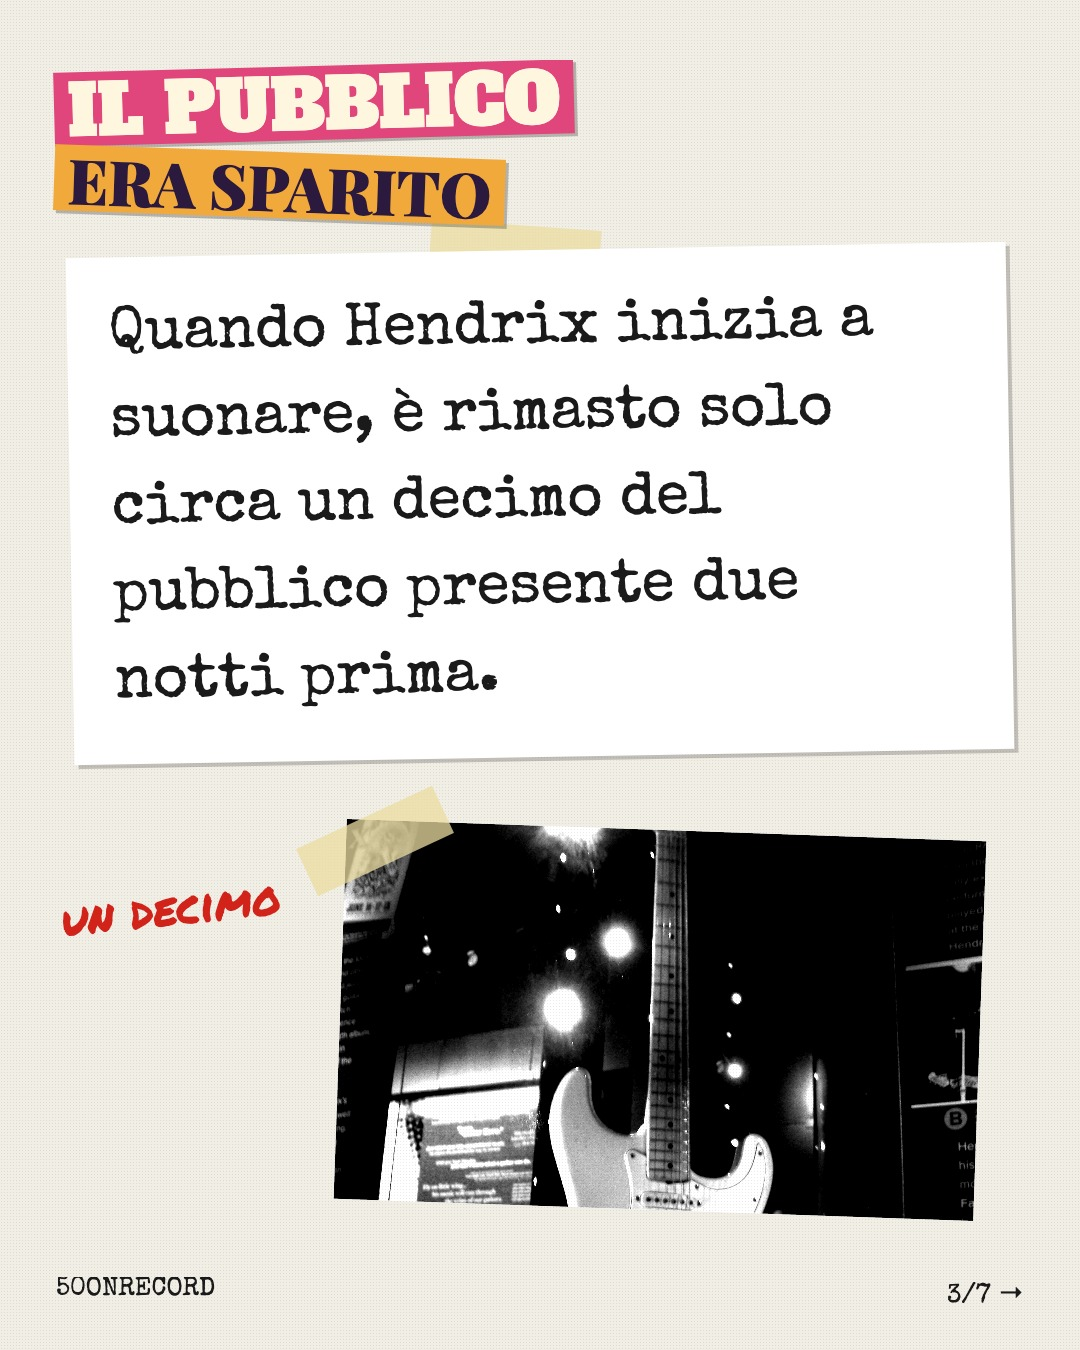
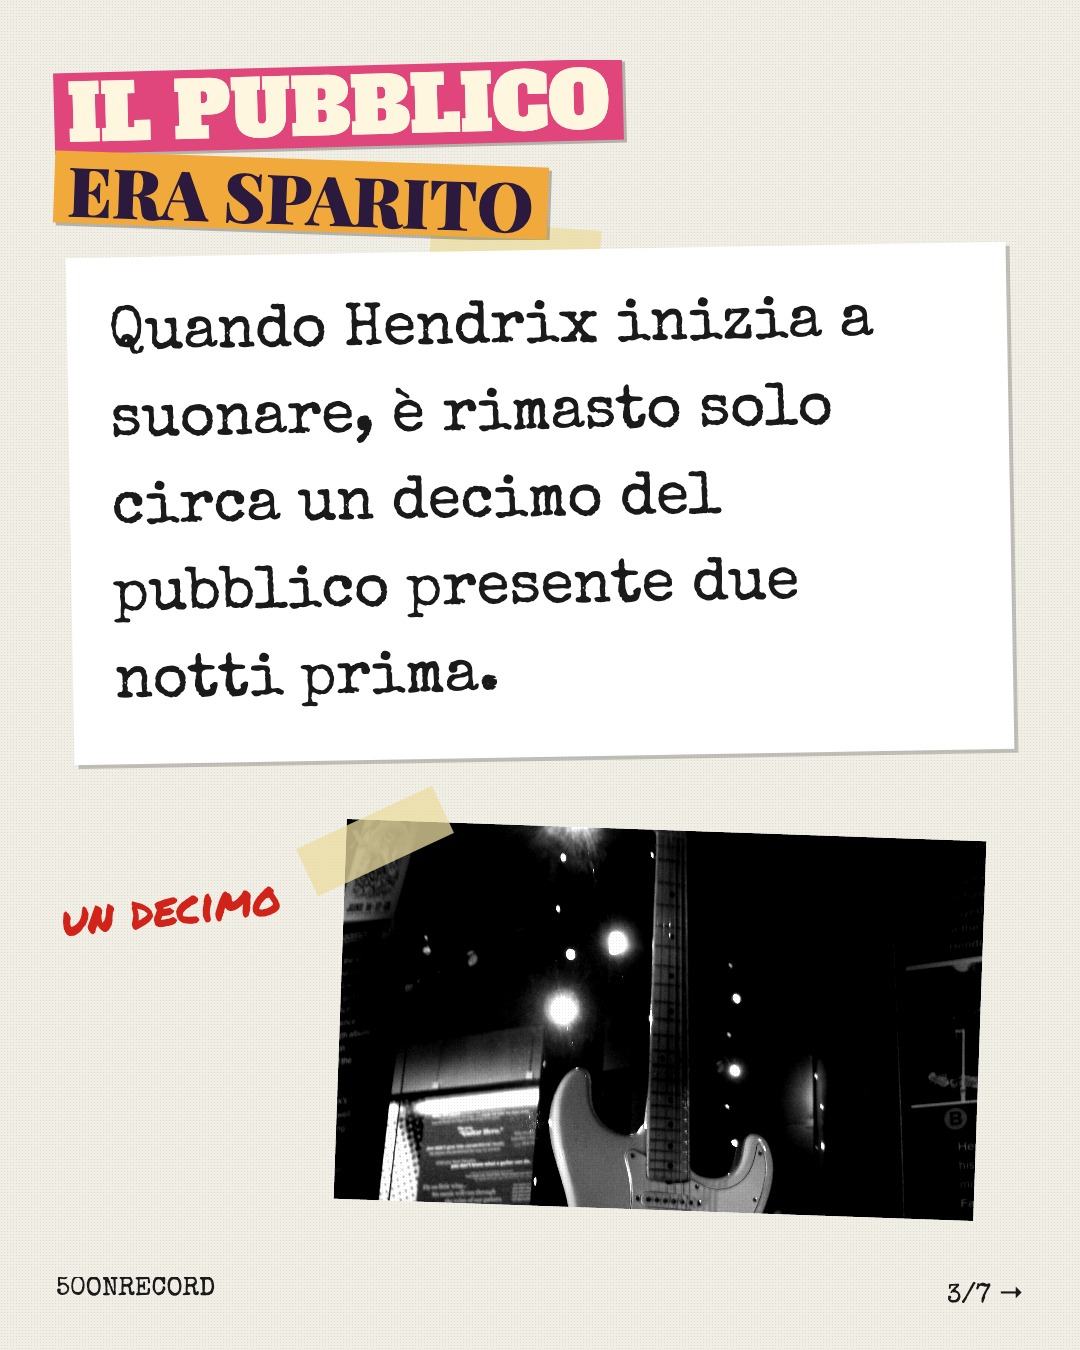
grafica: foto meno sbiadite, titoli a ritagli più grandi (crescono finché stanno nello spazio); Hendrix rifatto

diff --git a/templates/base.css b/templates/base.css
@@ -11,16 +11,16 @@ html, body { width: 1080px; height: 1350px; overflow: hidden; background: #f1eee
 .grain::before { content: ""; position: absolute; inset: 0; background-image: radial-gradient(rgba(0,0,0,.08) 1px, transparent 1px); background-size: 3px 3px; pointer-events: none; z-index: 5; }
 
 .xerox { position: absolute; overflow: hidden; background: #fff; }
-.xerox img { width: 100%; height: 100%; object-fit: cover; object-position: 50% 25%; filter: grayscale(1) brightness(1.9) contrast(1.7); }
+.xerox img { width: 100%; height: 100%; object-fit: cover; object-position: 50% 25%; filter: grayscale(1) brightness(1.2) contrast(1.4); }
 .tape { position: absolute; width: 170px; height: 52px; background: rgba(235,220,160,.75); z-index: 6; }
 
 .cuts { position: absolute; left: 50px; right: 50px; overflow: hidden; z-index: 7; text-transform: uppercase; }
 .cut { display: inline-block; white-space: nowrap; margin: 6px 4px; padding: 4px 14px 0; line-height: 1; box-shadow: 3px 3px 0 rgba(0,0,0,.25); }
-.cuts .cut:nth-child(5n+1) { background: var(--c1-bg); color: var(--c1-fg); font-family: var(--f1); font-size: var(--s1, 96px); transform: rotate(-1.5deg); }
-.cuts .cut:nth-child(5n+2) { background: var(--c2-bg); color: var(--c2-fg); font-family: var(--f2); font-size: var(--s2, 78px); transform: rotate(2deg); }
-.cuts .cut:nth-child(5n+3) { background: var(--c3-bg); color: var(--c3-fg); font-family: var(--f3); font-size: var(--s3, 90px); transform: rotate(-1deg); }
-.cuts .cut:nth-child(5n+4) { background: var(--c4-bg); color: var(--c4-fg); font-family: var(--f4); font-size: var(--s4, 58px); transform: rotate(1deg); }
-.cuts .cut:nth-child(5n+5) { background: var(--c5-bg); color: var(--c5-fg); font-family: 'Special Elite'; font-size: var(--s5, 58px); transform: rotate(-2deg); }
+.cuts .cut:nth-child(5n+1) { background: var(--c1-bg); color: var(--c1-fg); font-family: var(--f1); font-size: calc(var(--s1, 96px) * var(--k, 1)); transform: rotate(-1.5deg); }
+.cuts .cut:nth-child(5n+2) { background: var(--c2-bg); color: var(--c2-fg); font-family: var(--f2); font-size: calc(var(--s2, 78px) * var(--k, 1)); transform: rotate(2deg); }
+.cuts .cut:nth-child(5n+3) { background: var(--c3-bg); color: var(--c3-fg); font-family: var(--f3); font-size: calc(var(--s3, 90px) * var(--k, 1)); transform: rotate(-1deg); }
+.cuts .cut:nth-child(5n+4) { background: var(--c4-bg); color: var(--c4-fg); font-family: var(--f4); font-size: calc(var(--s4, 58px) * var(--k, 1)); transform: rotate(1deg); }
+.cuts .cut:nth-child(5n+5) { background: var(--c5-bg); color: var(--c5-fg); font-family: 'Special Elite'; font-size: calc(var(--s5, 58px) * var(--k, 1)); transform: rotate(-2deg); }
 .cuts.small { --s1: 70px; --s2: 62px; --s3: 66px; --s4: 50px; --s5: 50px; }
 .cuts.tiny { --s1: 50px; --s2: 44px; --s3: 48px; --s4: 40px; --s5: 40px; }
 .cuts.huge { --s1: 150px; --s2: 110px; --s3: 120px; }

diff --git a/tests/test_render.py b/tests/test_render.py
@@ -229,3 +229,39 @@ def test_final_slide_without_lyric_quote_keeps_the_e_tu_heading(tmp_path, story_
     render_story(story, _photos_for(story), issue=1, out_dir=tmp_path)
     final = (tmp_path / "html" / f"{len(story.slides):02d}.html").read_text(encoding="utf-8")
     assert "E TU?" in final
+
+
+def _cut_scale(html):
+    import os
+    from playwright.sync_api import sync_playwright
+    from onrecord.render import _GROW_CUTS_JS, _OVERFLOW_JS
+    with sync_playwright() as pw:
+        browser = pw.chromium.launch(channel=os.environ.get("ONRECORD_BROWSER_CHANNEL") or None)
+        try:
+            tab = browser.new_page(viewport={"width": 1080, "height": 1350})
+            tab.set_content(html)
+            tab.evaluate(_GROW_CUTS_JS, 1.6)
+            scales = tab.evaluate("[...document.querySelectorAll('.cuts')].map(e => parseFloat(e.style.getPropertyValue('--k') || 1))")
+            return scales, tab.evaluate(_OVERFLOW_JS, 10)
+        finally:
+            browser.close()
+
+
+_CUTS_CSS = ("<style>*{margin:0;box-sizing:border-box}.cuts{position:absolute;left:50px;right:50px;overflow:hidden}"
+             ".cut{display:inline-block;white-space:nowrap;margin:6px 4px;padding:4px 14px 0;line-height:1;"
+             "font-family:sans-serif;font-size:calc(70px * var(--k, 1))}</style>")
+
+
+def test_heading_cuts_grow_to_fill_their_space_without_overflowing():
+    html = _CUTS_CSS + '<div class="cuts fit" style="top:0;height:390px"><span class="cut">DI BIMBO</span></div>'
+    (scale,), bad = _cut_scale(html)
+    assert 1 < scale <= 1.6   # molto spazio: i ritagli crescono, fino al tetto
+    assert bad == []          # e restano dentro il loro riquadro
+
+
+def test_heading_cuts_that_do_not_fit_are_left_alone():
+    html = (_CUTS_CSS + '<div class="cuts fit" style="top:0;height:40px">'
+            '<span class="cut">UNA PAROLA</span><span class="cut">DI BIMBO</span></div>')
+    (scale,), bad = _cut_scale(html)
+    assert scale == 1         # non toccati: l'overflow resta segnalato
+    assert bad

diff --git a/onrecord/render.py b/onrecord/render.py
@@ -54,6 +54,24 @@ _GROW_NOTES_JS = """
 """
 
 
+# Anche i titoli a ritagli crescono (moltiplicatore --k sulle dimensioni di base) finché stanno nel loro spazio.
+CUT_MAX_SCALE = 1.5
+_GROW_CUTS_JS = """
+(cap) => {
+  document.querySelectorAll('.cuts.fit').forEach(el => {
+    const fits = () => el.scrollHeight <= el.clientHeight + 12 && el.scrollWidth <= el.clientWidth + 12;
+    if (!fits()) return;
+    let k = 1;
+    while (k + 0.05 <= cap + 1e-9) {
+      el.style.setProperty('--k', (k + 0.05).toFixed(2));
+      if (!fits()) { el.style.setProperty('--k', k.toFixed(2)); return; }
+      k += 0.05;
+    }
+  });
+}
+"""
+
+
 class SlideOverflowError(Exception):
     def __init__(self, slide_index: int, elements: List[str]):
         self.slide_index = slide_index
@@ -113,6 +131,7 @@ def render_story(story: Story, photos: Dict[int, List[Photo]], issue: int, out_d
                 tab.goto(page.as_uri())
                 tab.evaluate("document.fonts.ready")
                 tab.evaluate(_GROW_NOTES_JS, NOTE_MAX_FONT_PX)
+                tab.evaluate(_GROW_CUTS_JS, CUT_MAX_SCALE)
                 bad = tab.evaluate(_OVERFLOW_JS, FRAME_TOLERANCE)
                 if bad:
                     raise SlideOverflowError(i, bad)
